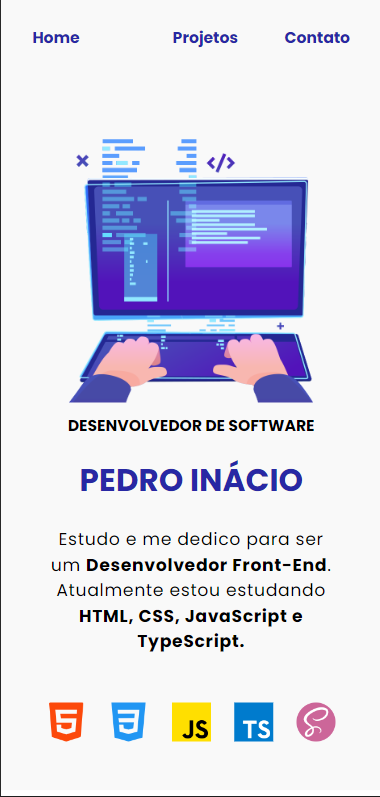
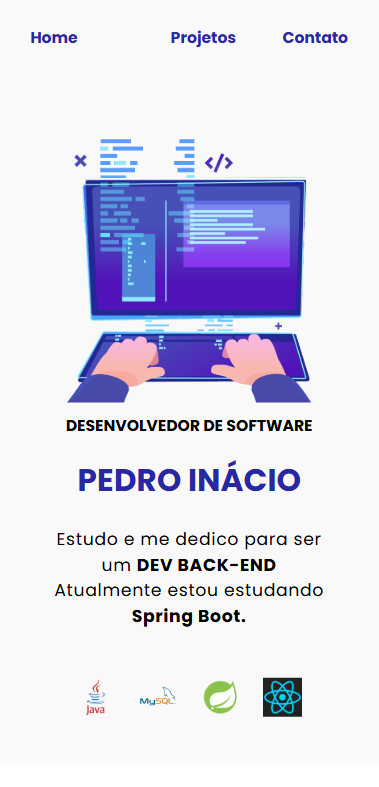
Add novas sections

diff --git a/index.html b/index.html
@@ -4,6 +4,9 @@
     <meta charset="UTF-8">
     <meta http-equiv="X-UA-Compatible" content="IE=edge">
     <meta name="viewport" content="width=device-width, initial-scale=1.0">
+    <meta name="description" content="Portfólio de Pedro Inácio, desenvolvedor back-end apaixonado por Spring Boot e desenvolvimento de software.">
+    <meta name="keywords" content="desenvolvedor, back-end, portfólio, spring boot">
+    <meta name="author" content="Pedro Inácio">
     <link rel="stylesheet" href="https://fonts.googleapis.com/css2?family=Material+Symbols+Outlined:opsz,wght,FILL,GRAD@20..48,100..700,0..1,-50..200" />
     <link rel="shortcut icon" href="images/favicon.png" type="image/x-icon">
     <link rel="preconnect" href="https://fonts.googleapis.com">
@@ -32,7 +35,7 @@
                     <h2 class="menu__profissao">DESENVOLVEDOR DE SOFTWARE</h2>
                     <h1 class="menu__nome">PEDRO INÁCIO</h1>
                     <p class="menu__sobre-mim">Estudo e me dedico para ser um <strong>DEV BACK-END</strong> 
-                    <br>Atualmente estou estudando <strong>Spring Boot.</strong></p>
+                    <br>Atualmente estou estudando <strong>Spring Boot</strong> e <strong>JPA</strong>.</p>
                 </article>
                 <section class="container__icones-tecnologias">
                     <img class="icones-tecnologias" src="images/java-logo.png" alt="ícone Java">  
@@ -44,65 +47,127 @@
     </section>
 
     <section id="sobre__mim" class="sobre__mim">
-        <div>
-            <img class="sobre-mim-imagem" src="images/imagem_coding.png" alt="">
-        </div>
         <div class="sobre__mim-informacoes">
+            <figure>
+                <img class="sobre-mim-imagem" src="images/imagem_coding.png" alt="Imagem demonstrativa de um computador em uma mesa">
+            </figure>
+
+            <aside>
             <h2>SOBRE MIM</h2>
-            <p class="sobre__mim-texto">
-                Meu nome é Pedro Inácio, tenho 20 anos e estou no 7º semestre de Ciência da Computação. Iniciei minha carreira como Suporte Técnico e QA, onde desenvolvi habilidades práticas em análise de sistemas e resolução de problemas. No entanto, minha verdadeira paixão está no desenvolvimento de software Back-end. Por isso, tenho me dedicado a criar projetos pessoais que aplicam os conhecimentos adquiridos na faculdade e nos cursos da Alura. Cada novo projeto é uma oportunidade de transformar ideias em soluções reais, consolidando minha transição para o desenvolvimento de software.
-            </p>
+                <article class="sobre__mim-texto">
+                    Meu nome é Pedro Inácio, tenho 20 anos e estou no 7º semestre de Ciência da Computação. Iniciei minha carreira como Suporte Técnico e QA, onde desenvolvi habilidades práticas em análise de sistemas e resolução de problemas. No entanto, minha verdadeira paixão está no desenvolvimento de software Back-end. Por isso, tenho me dedicado a criar projetos pessoais que aplicam os conhecimentos adquiridos na faculdade e nos cursos da Alura. Cada novo projeto é uma oportunidade de transformar ideias em soluções reais, consolidando minha transição para o desenvolvimento de software.
+                </article>
+            </aside>
+        </div>
+
+        <div class="sobre__mim-experiencias">
+            <h2>Experiências</h2>
+            <article class="sobre__mim-texto">
+                SistGlobal Sistemas e Computadores LTDA | 05/2023 - Atualmente
+                <br><br>
+                Responsável por oferecer assistência técnica à infraestrutura de TI e softwares de
+                logística como, WMS, TMS e EMBARCADOR. Após um período, comecei a realizar
+                atividades essenciais para assegurar a qualidade dos nossos softwares ao realizar
+                testes. Para isso, utilizo testes funcionais e não funcionais e contribuo para a
+                formulação de estratégias, planos de teste e avaliação dos resultados.
+            </article>
+        </div>
+
+        <div class="sobre__mim-educacao">
+            <h2>Educação</h2>
+            <article class="sobre__mim-texto">
+                <p><strong>Centro Universitário das Faculdades Metropolitanas Unidas</strong></p>
+                <p>2022 - Atualmente</p>
+                <p>Ciência da Computação 7/8;</p><br>
+                <p><strong>Alura – Cursos online de tecnologia</strong></p>
+                <p>2022 - Atualmente</p>
+                <p>Curso online de tecnologia;</p><br>
+                <p><strong>Wizard by Person</strong></p>
+                <p>2022 - Atualmente</p>
+                <p>Inglês Intermediário.</p>
+            </article>
         </div>
     </section>
+    
 
     <section id="projects" class="projetos">
-        <h2 class="projetos__titulo">PROJETOS</h2>     
-        <div class="container__projeto">
-            <img class="imagem__projeto" src="images/web-1.png" alt="">
-            <div>
-                <h4 class="projeto__titulo-projeto">E-Commerce 🪥</h4>
-                <p class="projeto__texto">O E-commerce ZN Dental é feito em <strong>React</strong> e <strong>JavaScript</strong>, onde testo meus recentes conhecimentos em como consumir dados com administrar constuir components em React<br></p>
+        <h2 class="projetos__titulo">PROJETOS</h2> 
+
+        <section class="container__projeto">
+            <figure>
+                <img class="imagem__projeto" src="images/screen-match.png" alt="Imagem projeto screen match">
+            </figure>
+            <article>
+                <h4 class="projeto__titulo-projeto">Screen Match 🎞</h4>
+                <p class="projeto__texto">Este projeto é uma aplicação <strong>Full-Stack</strong> local que utiliza <strong>Spring Boot</strong> para gerenciar um banco de dados com frases de filmes e séries. A aplicação realiza requisições para selecionar aleatoriamente uma frase armazenada e responde às chamadas feitas pelo <strong>JavaScript</strong>, garantindo uma interação fluida e integrada entre as camadas do sistema.</p>
+                
+                <a href="https://github.com/pedroinaciop/frases_db" target="_blank">
+                    <div class="projeto__links">
+                        <div class="links">Code<img class="imagens__links" src="images/code.png" alt="Ícone code">
+                        </div>
+                    </div>
+                </a>
+
+            </article>
+        </section>
+        
+        <section class="container__projeto">
+            <figure>
+                <img class="imagem__projeto" src="images/web-1.png" alt="Imagem do projeto e-commerce">
+            </figure>
+            <article>
+                <h4 class="projeto__titulo-projeto">E-Commerce 🪥 *Em construção*</h4>
+                <p class="projeto__texto">O E-commerce ZN Dental foi desenvolvido com <strong>React</strong> e <strong>JavaScript</strong>, sendo um projeto onde aplico e testo meus conhecimentos recentes na construção e administração de componentes em React, além do consumo de dados de forma dinâmica.</p>
+                
+                <a href="https://github.com/pedroinaciop/zn_dental-react" target="_blank">
                 <div class="projeto__links">
                     <div class="links">
-                        <a href="https://github.com/pedroinaciop/zn_dental-react" target="_blank">Code</a>
-                        <img class="imagens__links" src="images/code.png" alt="">
+                            Code<img class="imagens__links" src="images/code.png" alt="ícone code">
                     </div>
+                </a>
+
+                <a href="https://zn-dental-react-j0lt7q4bo-pedroinaciops-projects.vercel.app/" target="_blank">
                     <div class="links">
-                        <a href="https://zn-dental-react-j0lt7q4bo-pedroinaciops-projects.vercel.app/" target="_blank">Github Pages</a>
-                        <img class="imagens__links" src="images/github-black.png" alt="">
+                        Github Pages <img class="imagens__links" src="images/github-black.png" alt="Ícone github pages">
                     </div>
+                </a>
                 </div>
-            </div>
-        </div>
-        <div class="container__projeto">
-            <img class="imagem__projeto" src="https://pedroinaciop.github.io/Bytebank/dist/images/web-1.png" alt="">
-            <div>
+            </article>
+        </section>
+
+        <section class="container__projeto">
+            <figure>
+                <img class="imagem__projeto" src="https://pedroinaciop.github.io/Bytebank/dist/images/web-1.png" alt="Imagem do projeto bytebank">
+            </figure>
+            <article>
                 <h4 class="projeto__titulo-projeto">ByteBank 🏦</h4>
-                <p class="projeto__texto">O ByteBank é um projeto feito com foco em aprimorar e conhecer tecnologias novas do <strong>TypeScript</strong> e <strong>localStorage</strong>.</p>
+                <p class="projeto__texto">O ByteBank é um projeto desenvolvido com o objetivo de explorar e aprimorar conhecimentos em novas tecnologias, como <strong>TypeScript</strong> e <strong>localStorage</strong>.</p>
+                
+                <a href="https://github.com/pedroinaciop/Bytebank" target="_blank">
                 <div class="projeto__links">
                     <div class="links">
-                        <a href="https://github.com/pedroinaciop/Bytebank" target="_blank">Code</a>
-                        <img class="imagens__links" src="images/code.png" alt="">
+                        Code <img class="imagens__links" src="images/code.png" alt="ícone code">
                     </div>
+                </a>
+                <a href="https://bytebank-be5907tv7-pedroinaciops-projects.vercel.app/" target="_blank">
                     <div class="links">
-                        <a href="https://bytebank-be5907tv7-pedroinaciops-projects.vercel.app/" target="_blank">Github Pages</a>
-                        <img class="imagens__links" src="images/github-black.png" alt="">
+                        Github Pages <img class="imagens__links" src="images/github-black.png" alt="ícone github pages">
                     </div>
+                </a>
                 </div>
-            </div>
-        </div>
+            </article>
+        </section>
     </section>    
 
     <section id="contacts" class="contatos">
         <h2>Contato</h2>
-
         <div class="paragrafos__contatos">
-            <div class="container__icones-contatos"><img class="container__imagem-contatos" src="images/gmail.png" alt=""></div>
+            <div class="container__icones-contatos"><img class="container__imagem-contatos" src="images/gmail.png" alt="ícone email"></div>
             <p>inaciopedro2004@gmail.com</p>
         </div>
 
         <div class="paragrafos__contatos">
-            <div class="container__icones-contatos"><img class="container__imagem-contatos" src="images/mapas-do-google.png" alt=""></div>
+            <div class="container__icones-contatos"><img class="container__imagem-contatos" src="images/mapas-do-google.png" alt="Ícone telefone"></div>
             <p>São Paulo, Brasil</p>
         </div>
     </section>

diff --git a/styles/media-query.css b/styles/media-query.css
@@ -42,15 +42,20 @@
     /*---------------------------------------------------------*/
 
     .sobre__mim {
-        height: 100vh;
-
         background-color: var(--color2);
-        padding: 0 200px;
+        padding: 200px 200px 50px 200px;
+        flex-direction: column;
+        justify-content: center;
+        gap: 80px;
+    }
 
+    .sobre__mim-informacoes {
+        display: flex;
         flex-direction: row;
         justify-content: center;
         gap: 80px;
     }
+    
 
     /*---------------------------------------------------------*/
 

diff --git a/styles/mobile-first/sobre-mim.css b/styles/mobile-first/sobre-mim.css
@@ -1,4 +1,5 @@
 .sobre__mim {
+    height: 100%;
     background-color: var(--color2);
 
     display: flex;
@@ -9,9 +10,20 @@
     padding: 4.5rem 3rem 0rem 3rem;
 }
 
+.sobre__mim-informacoes {
+    display: flex;
+    flex-direction: column;
+    justify-content: center;
+    gap: 80px;
+}
+
+.sobre__mim-experiencias, .sobre__mim-educacao {
+  width: 100%;      
+}
+
 .sobre__mim-texto { 
     margin-top: 1rem;
-    margin-bottom: 2rem;
+    margin-bottom: 1rem;
     
     font-size: 18px;
     font-weight: 400;

diff --git a/styles/mobile-first/projetos.css b/styles/mobile-first/projetos.css
@@ -45,9 +45,23 @@
 .links {
     display: flex;
     gap: 0.5rem;
+    padding: 8px;
+    border-radius: 10px;
+
+    background-color: #aaaaaa;
+    box-shadow: 2px 2px rgba(0, 0, 0, 0.59);
 }
 
-.links a {
+.links:active {
+    position: relative;
+    left: 1.5px;
+    top: 1.5px;
+    
+    transition: 0.2s;
+    box-shadow: 0px 0px rgba(0, 0, 0, 0);
+}
+
+.container__projeto a {
     color: var(--color4);
 
     text-decoration: none;

diff --git a/styles/reset.css b/styles/reset.css
@@ -17,9 +17,14 @@ time, mark, audio, video {
 	vertical-align: baseline;
 }
 
-article, aside, details, figcaption, figure, 
+article, aside, details, figcaption, 
 footer, header, hgroup, menu, nav, section {
 	display: block;
+}
+
+figure {
+	display: block;
+	margin: auto;
 }
 
 body {

diff --git a/styles/styles.css b/styles/styles.css
@@ -33,6 +33,7 @@ html, body {
     border: 0;  
     font-family: "Poppins", sans-serif;
     background-color: var(--color7);
+    scroll-behavior: smooth;
 }
 
 body::-webkit-scrollbar {

diff --git a/styles/mobile-first/menu.css b/styles/mobile-first/menu.css
@@ -48,4 +48,5 @@
 .icones-tecnologias {
     height: 40px;
     width: 40px;
+    border-radius: 100%;
 }
